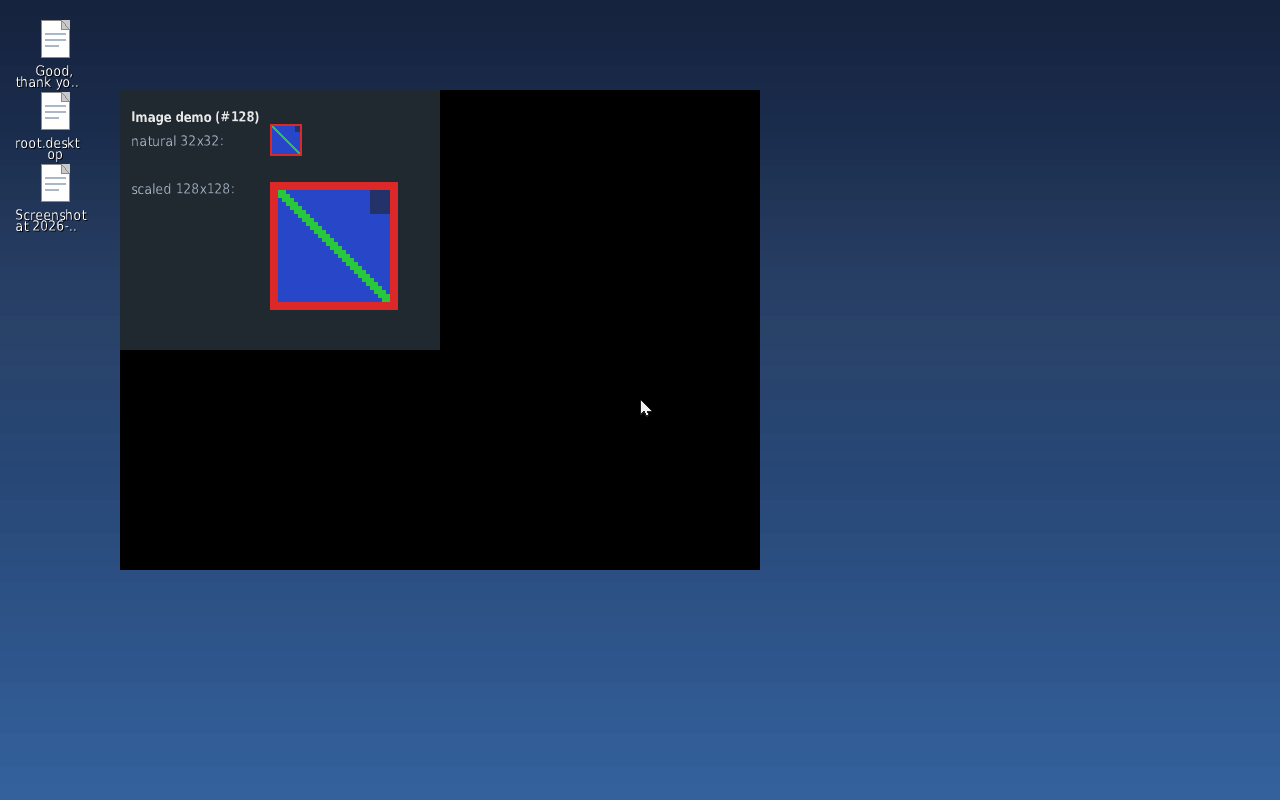
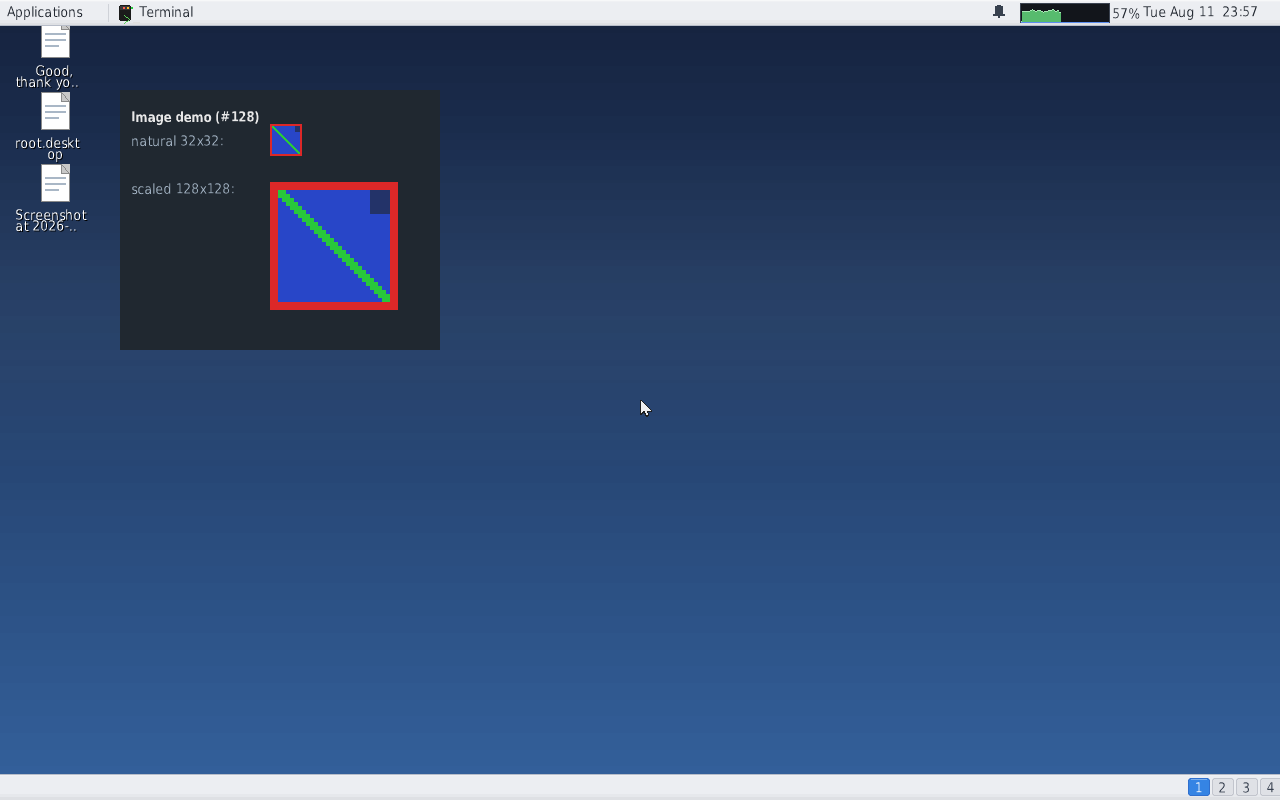
docs: the coverage guard, the fixed hamimgscene screenshot, and the three clients still waiting on keyed/blend
The screenshot the machine owner found the black margin in is replaced with
the fixed one: hamimgscene composited over hamdesktop's backdrop with the
panel up, its window now exactly the 320x260 it paints. Git history keeps the
one with the defect in it.

HANDOFF.md 0 gains THE COVERAGE GUARD: the sweep's result (the class has two
causes and only one of them is a client bug), the finding that this port never
implemented devwsys's keyed/blend ctl verbs -- the same shape and the same
file as background/pin, which ea23c834 found the same way -- and the three
clients that already ask for them and get silence.

Claude-Session: https://claude.ai/code/session_01BU3NkPBL3vF1hz7JasXyg3

Changed region(s): [[0.0938, 0.0938, 0.5938, 0.7188], [0.0, 0.9688, 1.0, 1.0], [0.0, 0.0, 1.0, 0.0312]]

diff --git a/HANDOFF.md b/HANDOFF.md
@@ -532,6 +532,17 @@ same failure this project exists to beat.
   over hamdesktop's backdrop), `wsys-image-video.png` (hamvideocore's `"frame"`,
   advancing), `wsys-image-hamsdl.png` (hamGame presents its ENTIRE surface as
   one named image, so for a hamSDL game the missing verb was the whole frame).
+  **The first version of that first screenshot carried a defect of its own and
+  the machine owner found it**: hamimgscene's window was a black rectangle
+  roughly twice the size of the picture in it, because the client never wrote a
+  `geometry` verb and took `win_alloc`'s 640x480 default while painting 320x260
+  — and `wsysd` clears a window to opaque black and blits the whole `w*h` rect,
+  so the difference reached the screen as black. Fixed in the client (a window
+  is as big as what is painted, and it is the client that says so; devwsys's own
+  default for a window that never asks is 320x240, not 640x480): black pixels
+  inside the window box **223883 → 0**, same run, before and after. The
+  screenshot is now the fixed one. **And the class is now gated rather than
+  eyeballed** — see THE COVERAGE GUARD below.
   Regressions re-run: `wsys_uidgate` PASS, `wsys_bypass` PASS, `wsyswl_stall`
   11, `wsyswl_shared_fate` 18, `x11_geom_probe` 9.
   **What is NOT settled**: launched from the VM's root console with
@@ -541,6 +552,61 @@ same failure this project exists to beat.
   share `/srv` with the session, which would give it a private window system —
   the failure shape `shm_attach` already names. It is a launch/namespace
   question, not an image one.
+
+#### THE COVERAGE GUARD, and the three clients still waiting on a verb
+
+A window whose scene does not cover it reaches the screen as a black
+rectangle: `user/wsysd.ad` clears a window's colour image to opaque black
+before rasterizing and then blits the whole `w*h` rect. The machine owner
+found **two** of these by looking at screenshots, weeks apart, and that is the
+detection mechanism the tree had. Every gate passed both times — the display
+lists were right, every op drew, every layer returned success.
+
+**The sweep found the class has exactly two causes, and only one of them is a
+client bug.**
+
+* **A client that never states its size** — `user/hamimgscene.ad`, and it was
+  the only one. Every other native scene client either writes a `geometry`
+  verb of its own or gets one from `lib/hamui.ad`'s `_h_win_setup`, which sets
+  `640x480` and whose root widget fills exactly that. `user/hamvideoselftest.ad`
+  creates a window and never paints, but it runs headless as `/init` with no
+  compositor and is correct as it stands. Fixed in the client, because a
+  window's size is the client's to state; that is the Plan 9 shape and
+  devwsys's, which keeps `wsys_win_geo_init` per window and answers
+  `WSYS_SCENE_DEFAULT_W/H` = **320x240** — not 640x480 — for one that never
+  said.
+* **A client whose window is DELIBERATELY larger than its paint, asking the
+  compositor for alpha-keyed present — and this port never implemented the
+  verb.** `sys/src/9/port/devwsys.ad:8085` documents `keyed 1` as existing for
+  exactly this, and names the client: *"a decorate-0 client (e.g.
+  hampanelscene) whose window rect is LARGER than the pixels it actually
+  paints — a panel that GROWS full-width to host an Applications dropdown,
+  then paints only the bar + the menu card and leaves the rest of the grown
+  band UNPAINTED"*. `user/hampanelscene.ad` already writes `keyed 1` on every
+  panel window it allocates, and says why in a comment quoting the same
+  user-reported symptom. **`user/linux-wsys.c` has no `keyed` and no `blend`,
+  an unknown ctl verb is ignored, and so the fix regressed silently in the
+  port** — the same shape and the same file as `background`/`pin`, which
+  ea23c834 found the same way. Three clients are waiting on it:
+  `hampanelscene` (`keyed`, the Applications dropdown — the black band in
+  `docs/screenshots/linux/distro-menu-debian.png`), `hamappmenu` (`keyed`, the
+  hover fly-out band), `hamshotui` (`blend`, the screenshot dim scrim, which
+  is currently an opaque black rectangle over the desktop it is meant to dim).
+  **This one is server-side and is NOT fixed here** — see the routing note.
+
+**And it is a gate now.** `lib/hamui_host.ad` — the rasterizer wsysd
+composites every window with — unions each painting op's destination rect into
+a per-row interval and answers `hamui_host_uncovered_rows()` /
+`_covered_w()` / `_covered_h()`. Like the image-miss table beside it the module
+is pure and cannot print: it records, the caller reports.
+`user/scene_raster_host.ad` takes an optional `[w h]` and prints the verdict
+naming both sizes. `tests/linux/wsys_cover.sh` (7 PASS, host-only, seconds)
+carries a positive control that a full-window fill and a full-window roundrect
+are **not** accused, both real defect shapes reproduced with their exact
+numbers, and the real panel's own `--scene-dump` asserted to cover its resting
+bar. The measure is a per-row **union** and therefore conservative: it never
+accuses a scene that is fine, and an interior hole with paint either side of
+it on one row is not reported. Said out loud rather than left to be found.
 * The run-sweep score is **297 healthy / 328 runnable**, re-measured end to
   end (`/home/david/.hamnix-build/sweep-a74b5560/{BEFORE,AFTER}/`), and the
   interesting part is the run BEFORE the fixes: **265 / 329, row for row
